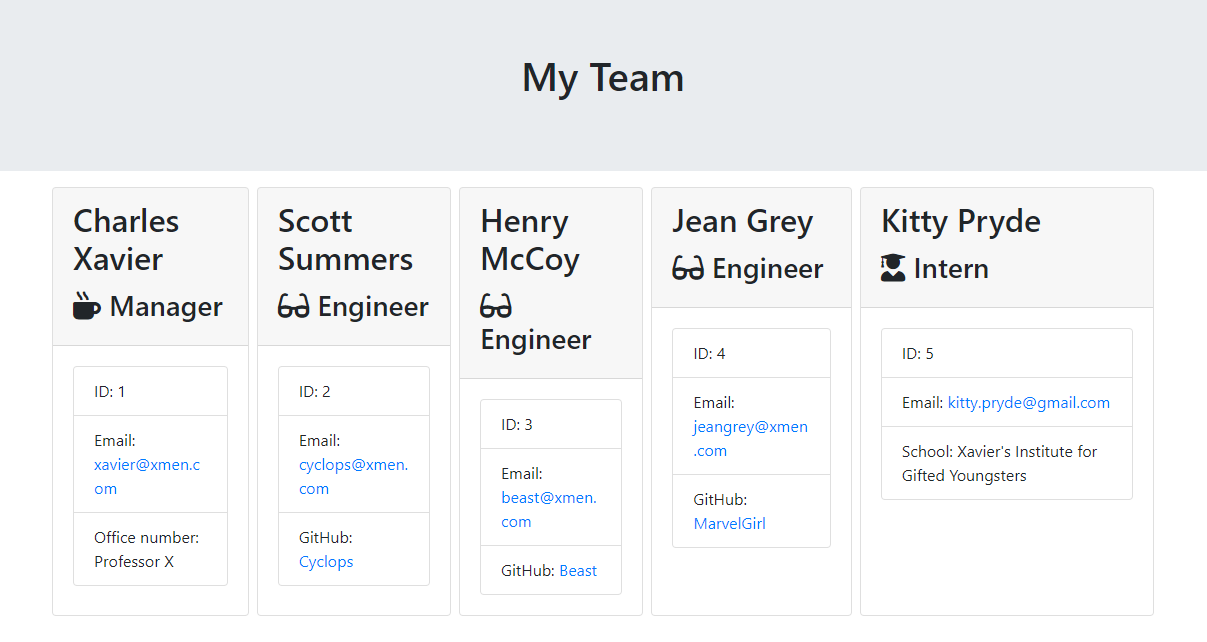
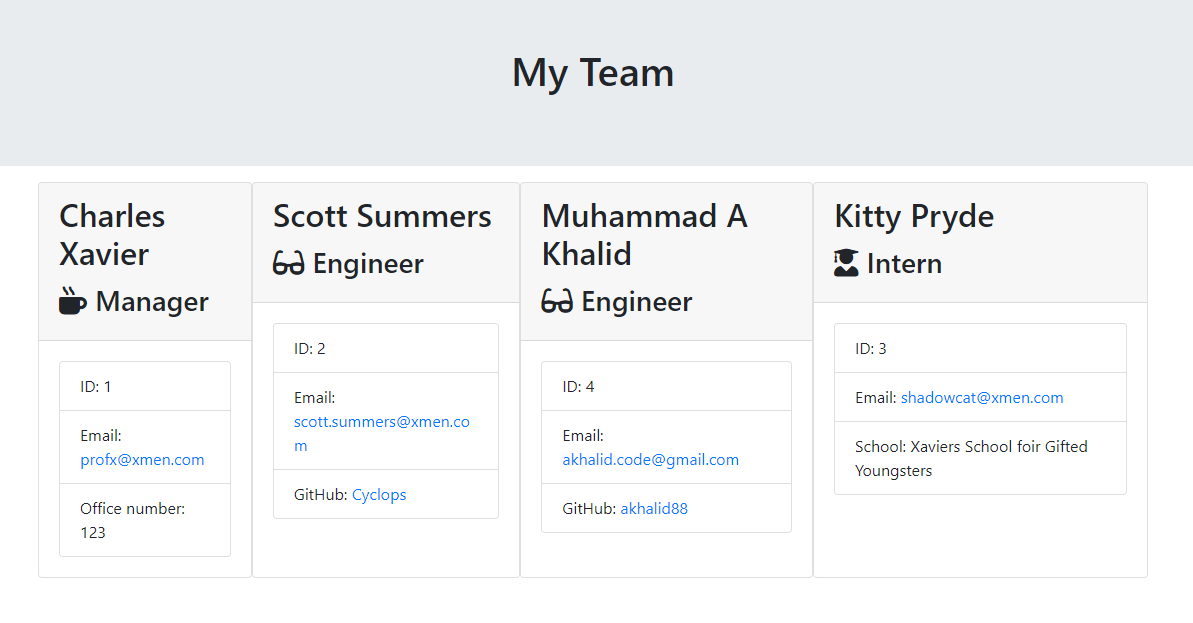
update readme

diff --git a/output/team.html b/output/team.html
@@ -25,27 +25,53 @@
             <div class="team-area col-12 d-flex justify-content-center">
                 <div class="card employee-card">
     <div class="card-header">
-        <h2 class="card-title"></h2>
+        <h2 class="card-title">Charles Xavier</h2>
         <h3 class="card-title"><i class="fas fa-mug-hot mr-2"></i>Manager</h3>
     </div>
     <div class="card-body">
         <ul class="list-group">
-            <li class="list-group-item">ID: asdf</li>
-            <li class="list-group-item">Email: <a href="mailto:sadf">sadf</a></li>
-            <li class="list-group-item">Office number: asdf</li>
+            <li class="list-group-item">ID: 1</li>
+            <li class="list-group-item">Email: <a href="mailto:profx@xmen.com">profx@xmen.com</a></li>
+            <li class="list-group-item">Office number: 123</li>
         </ul>
     </div>
 </div>
 <div class="card employee-card">
     <div class="card-header">
-        <h2 class="card-title">asdf</h2>
+        <h2 class="card-title">Scott Summers</h2>
         <h3 class="card-title"><i class="fas fa-glasses mr-2"></i>Engineer</h3>
     </div>
     <div class="card-body">
         <ul class="list-group">
-            <li class="list-group-item">ID: asdf</li>
-            <li class="list-group-item">Email: <a href="mailto:asdf">asdf</a></li>
+            <li class="list-group-item">ID: 2</li>
+            <li class="list-group-item">Email: <a href="mailto:scott.summers@xmen.com">scott.summers@xmen.com</a></li>
+            <li class="list-group-item">GitHub: <a href="https://github.com/Cyclops" target="_blank" rel="noopener noreferrer">Cyclops</a></li>
+        </ul>
+    </div>
+</div>
+<div class="card employee-card">
+    <div class="card-header">
+        <h2 class="card-title">Muhammad A Khalid</h2>
+        <h3 class="card-title"><i class="fas fa-glasses mr-2"></i>Engineer</h3>
+    </div>
+    <div class="card-body">
+        <ul class="list-group">
+            <li class="list-group-item">ID: 4</li>
+            <li class="list-group-item">Email: <a href="mailto:akhalid.code@gmail.com">akhalid.code@gmail.com</a></li>
             <li class="list-group-item">GitHub: <a href="https://github.com/akhalid88" target="_blank" rel="noopener noreferrer">akhalid88</a></li>
+        </ul>
+    </div>
+</div>
+<div class="card employee-card">
+    <div class="card-header">
+        <h2 class="card-title">Kitty Pryde</h2>
+        <h3 class="card-title"><i class="fas fa-user-graduate mr-2"></i>Intern</h3>
+    </div>
+    <div class="card-body">
+        <ul class="list-group">
+            <li class="list-group-item">ID: 3</li>
+            <li class="list-group-item">Email: <a href="mailto:shadowcat@xmen.com">shadowcat@xmen.com</a></li>
+            <li class="list-group-item">School: Xaviers School foir Gifted Youngsters</li>
         </ul>
     </div>
 </div>

diff --git a/READMETOO.md b/READMETOO.md
@@ -1,5 +1,5 @@
 # Template Engine  [![License: MIT](https://img.shields.io/badge/License-MIT-yellow.svg)](https://opensource.org/licenses/MIT) 
-This readme has been procedurally generated 
+###### This readme has been procedurally generated 
 
 -----------------------
 ## Table of Contents
@@ -21,7 +21,7 @@ A Node.js command-line application that generates a Team Profile HTML page with 
 
 -----------------------
 ## Deployed link
-https://github.com/akhalid88/template-engine
+No deployed link. Download or fork repo.
 
 -----------------------
 ## Installation
@@ -39,7 +39,7 @@ To run this tool use the following command. This will generate a markdown file i
 ```
 node app.js
 ```
-![Gif]()
+![Gif](assets/usage.gif)
 This application makes use of the following Node packages
 - fs
 - inquirer
@@ -49,9 +49,47 @@ This application makes use of the following Node packages
 -----------------------
 ## Code snippets
 
+After prompting the user for a en employees information, the user is given an option to add more employees, the `employeeMenu()` function. The response of this prompt is passed to a switch statement where it then calls the appropriate functions
+
+```
+switch (choice.teamMember) {
+  case "Engineer":
+    requestEngineerInfo();
+    break;
+  case "Intern":
+    requestInternInfo()
+    break;
+  case "Create Super Team":
+    console.log("Compiling Team Roster...");
+    generateHTML();
+    break;
+  default:
+    console.log("Invalid choice!");
+    break;
+}
+```
+
+Once the user has finished entering in additional employees and selects the 'Create Super Team" option from the menu, the application will run the generateHTML function. 
+
+It first checks to see id the output directory exists by checking `fs.existsSync(OUTPUT_DIR)`. If it does not exist it will create it using `fs.mkdirSync(OUTPUT_DIR)`. Then finally it will write the data created by `render(employees)` to the output path.
+
+```
+function generateHTML() {
+	if (!fs.existsSync(OUTPUT_DIR)) {
+		console.log("HERE");
+		fs.mkdirSync(OUTPUT_DIR);
+	}
+	fs.writeFile(outputPath, render(employees), function (err) {
+		if (err) {
+			throw err;
+		}
+	})
+}
+```
+
 -----------------------
 ## Licenses
-This project uses a [MIT License](https://opensource.org/licenses/MIT). 
+This project uses a [MIT License](https://opensource.org/licenses/MIT). See link for further information.
 
 -----------------------
 ## Contributing
@@ -66,7 +104,8 @@ npm run test
 
 -----------------------
 ## Questions
-Created by akhalid88
+Created by Muhammad A Khalid
+
 If you have any questions you can reach me at the following email: [akhalid.code@gmail.com](mailto:akhalid.code@gmail.com)
 
 Follow my other work at GitHub: https://github.com/akhalid88/
